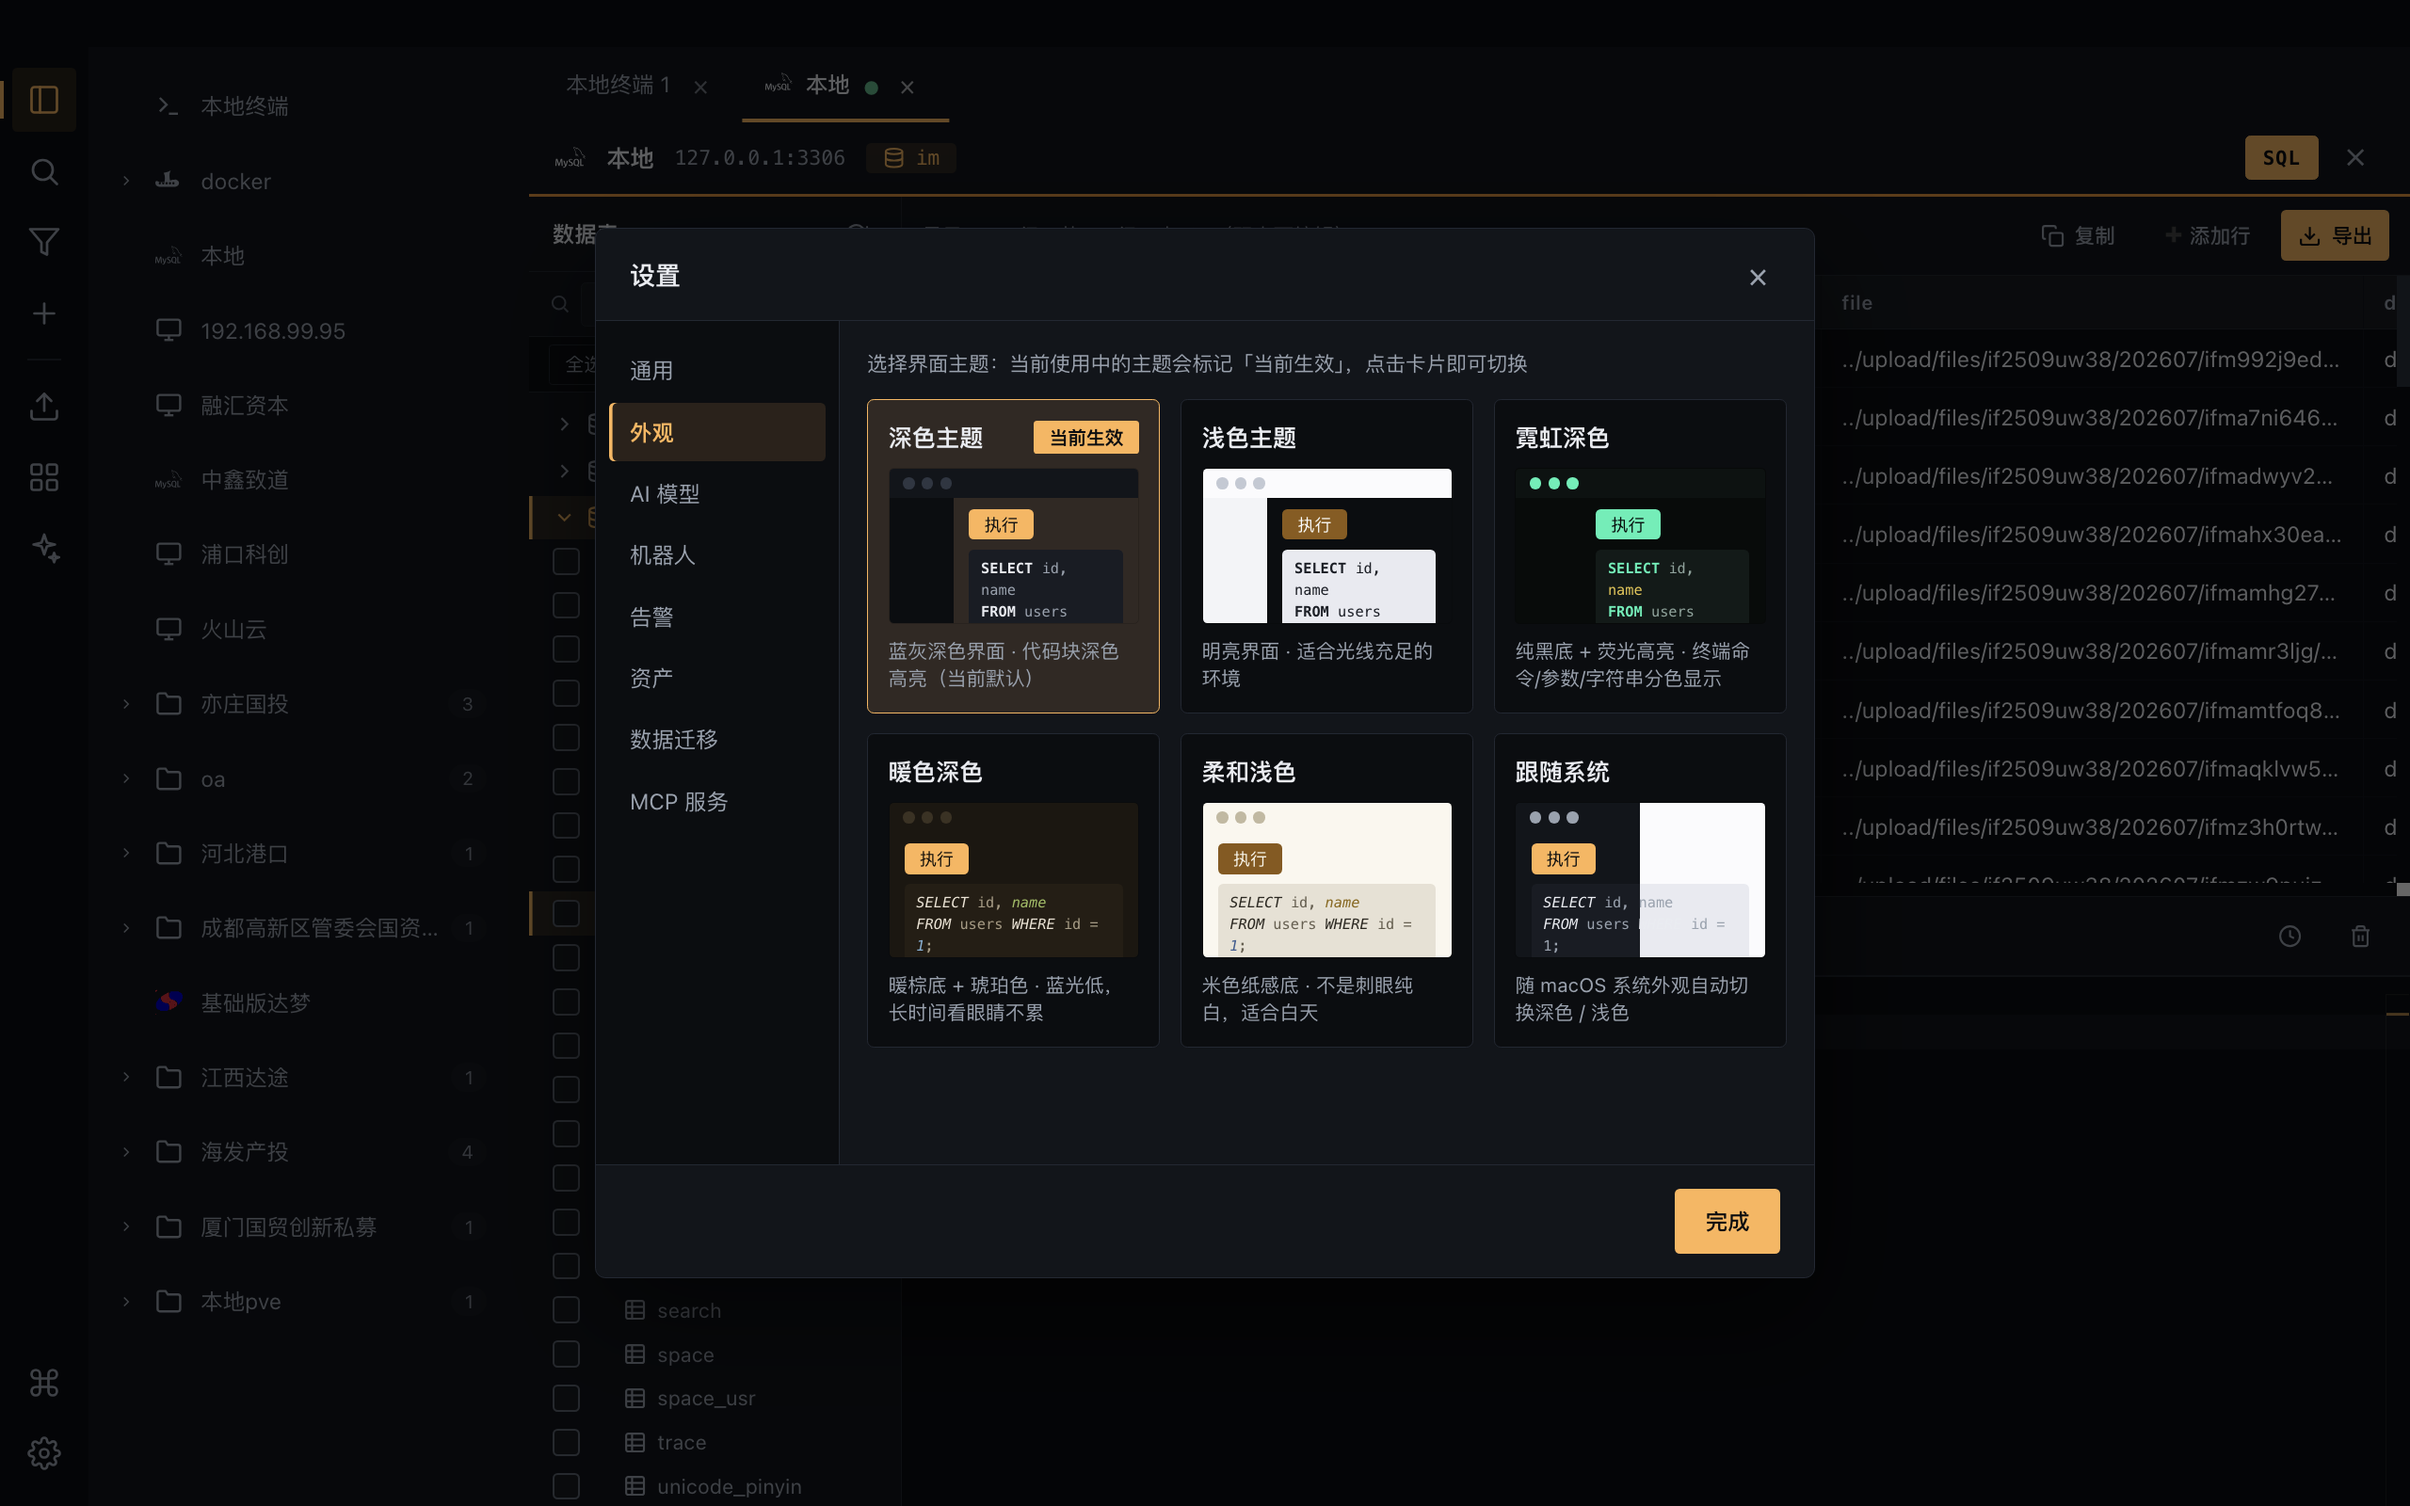
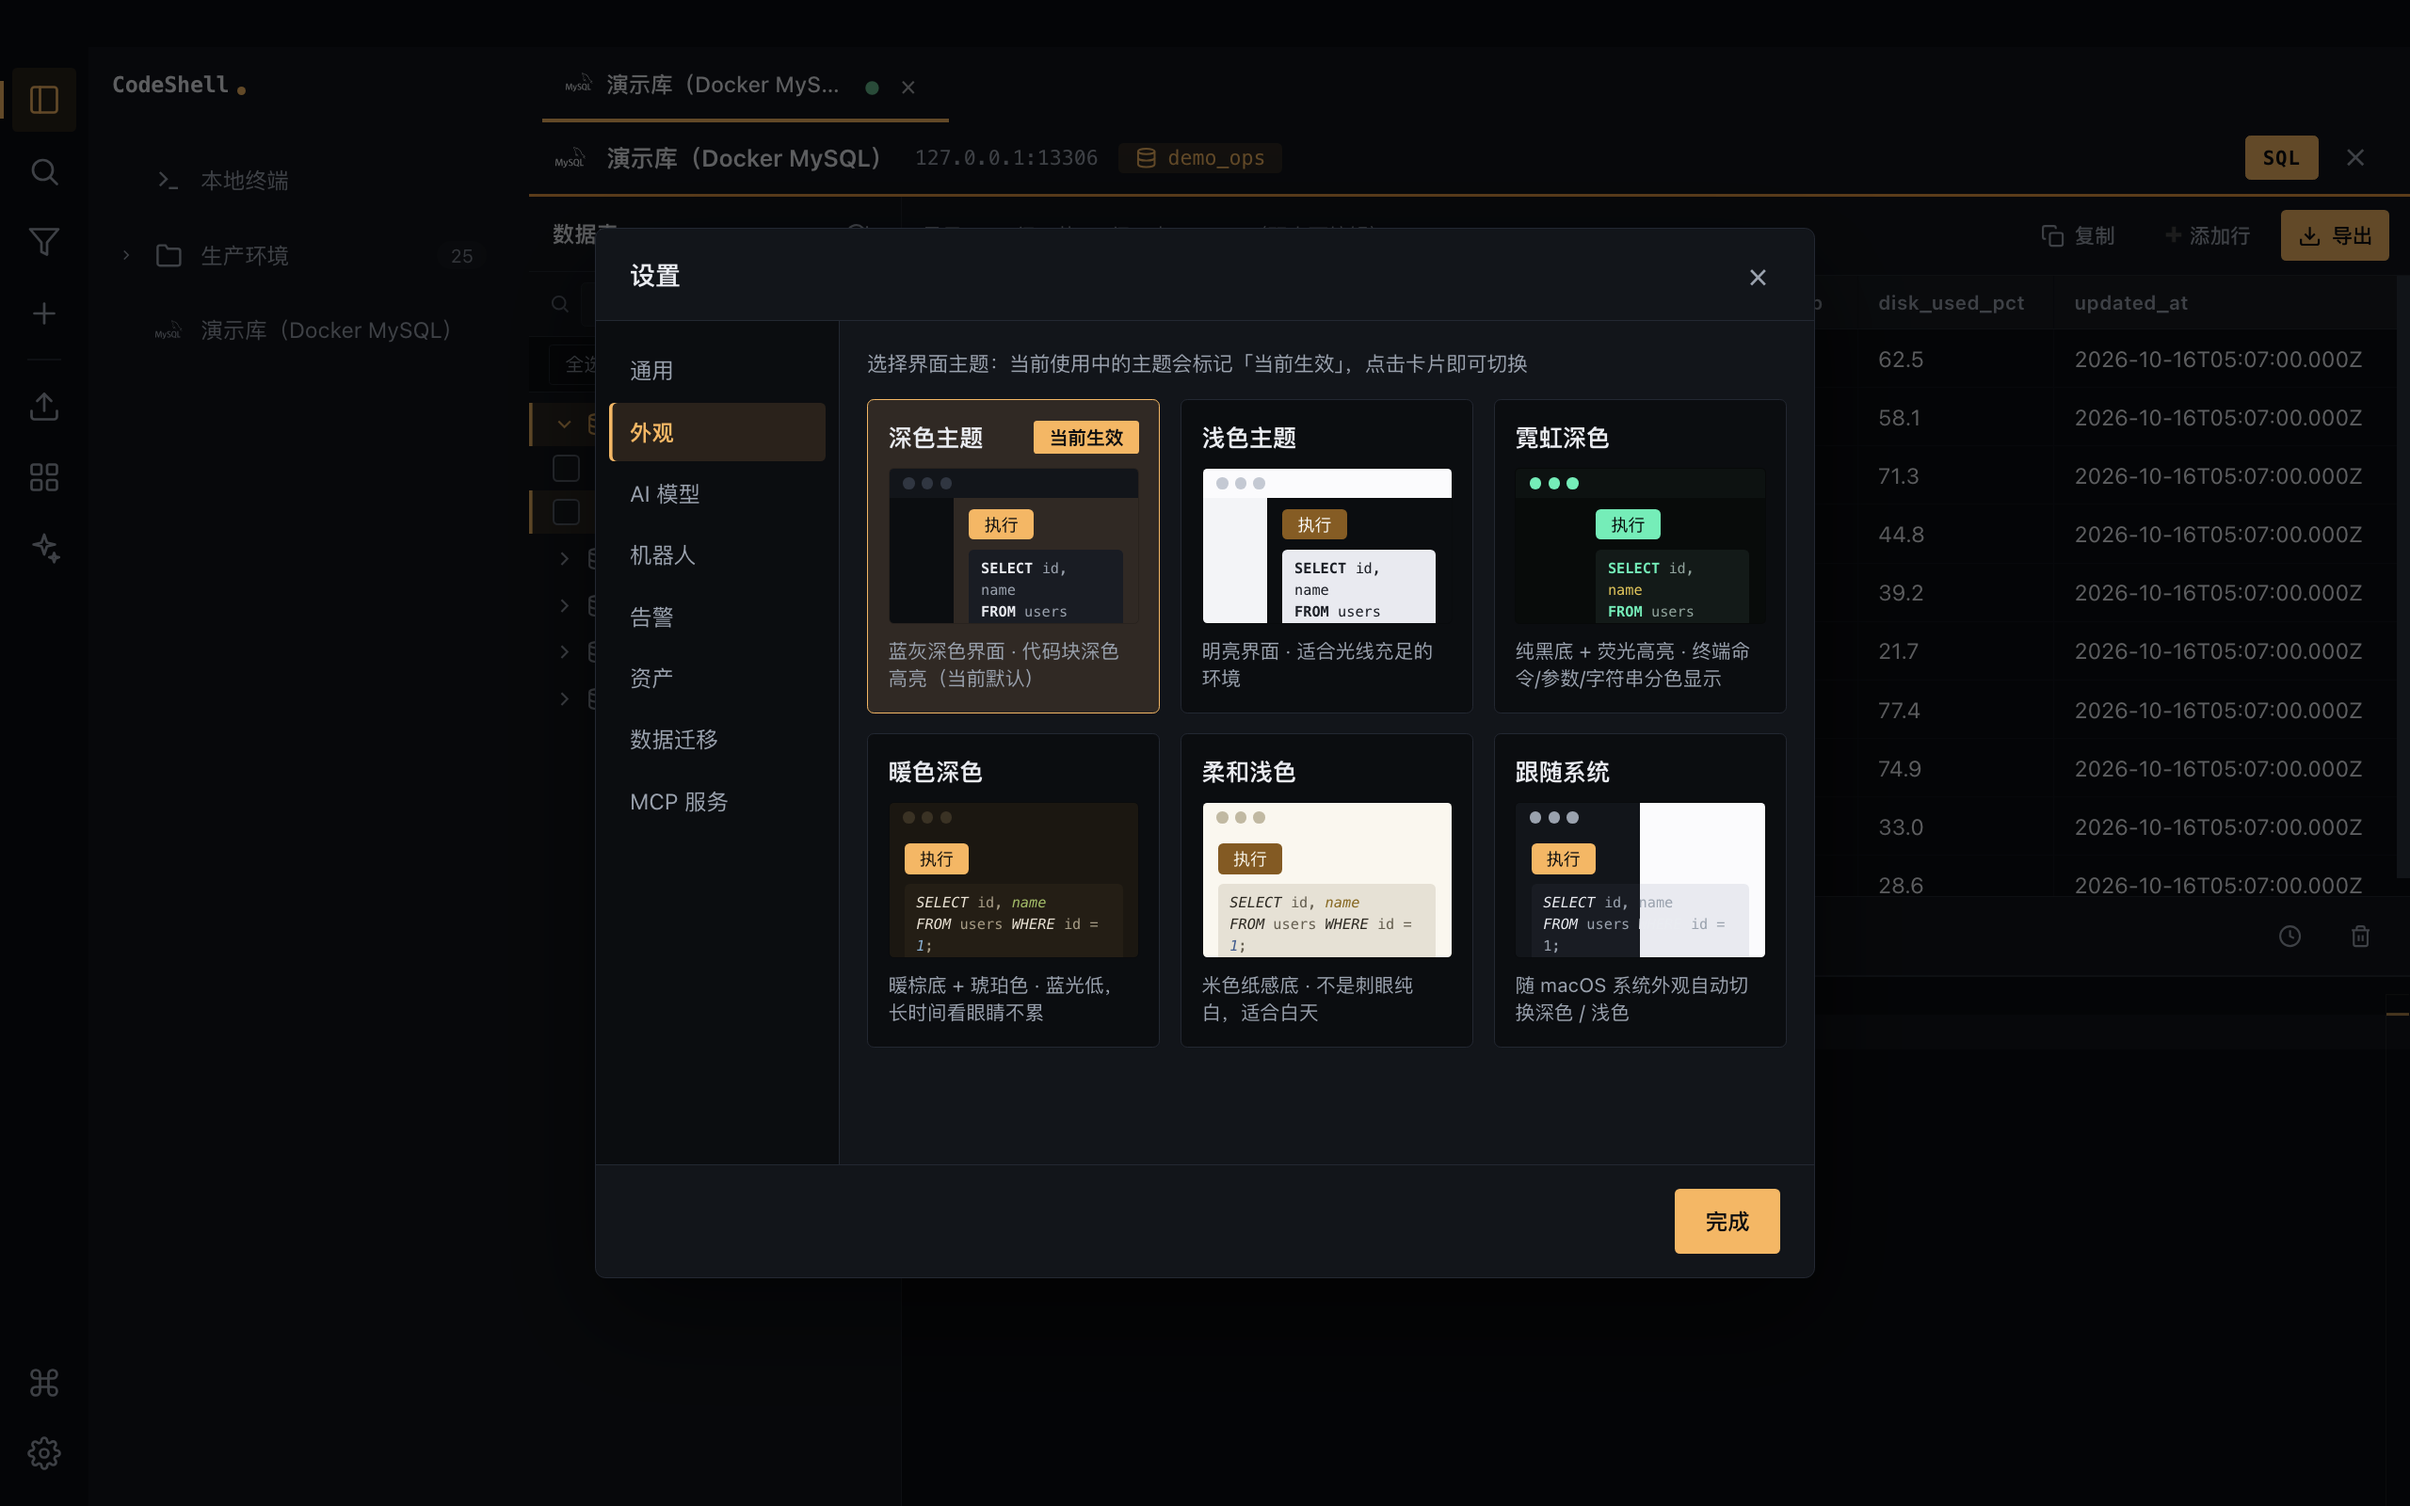
docs: v1.22.0 更新日志（AI 输入卡重做 / 停止生成 / 服务器分页）+ 徽章 1.22.0；截图全部换成通用演示数据（原截图含真实客户名与内网地址）

diff --git a/CHANGELOG.md b/CHANGELOG.md
@@ -2,6 +2,23 @@
 
 版本号遵循 [语义化版本](https://semver.org/lang/zh-CN/)：新功能 +0.1.0、修复/样式 +0.0.1、不兼容改动 +1.0.0。
 
+## v1.22.0
+
+### AI 助手输入区（重做）
+
+- **一张输入卡包住所有操作**：上方多行输入（随内容长高、空着也留两行），下方操作栏左侧是「＋（对话与上下文）· 对话/执行 · 权限」，右侧是「模型 · 思考 · 发送」。
+- **「对话 / 执行」改成常显分段控件**：两个选项一直摆着、当前项琥珀实心，不再是一个要点的文字按钮。
+- **生成中发送键变「停止生成」**：方块图标，`Esc` 等效；对话流支持真中断（300ms 内停），**已生成的内容全部保留**；批量运维同样支持，且不会把半截回复里的命令填进命令框。
+- **「工作中 x 分 y 秒」状态条 + 转圈**：处理中等了多久一眼可见，输入框与发送键同步禁用。
+- **思考过程不再重放**：打字机只对实时内容生效 —— 切换对话/执行、重开面板都不会再把历史思考「逐字打一遍」。
+- 细节：发送箭头常显（禁用时暗箭头而非空白方块）、模型名显示成「厂商/模型」、思考过程可设默认展开/收起、`＋` 菜单里可关掉终端上下文引用、归档/恢复对话移到 `＋` 菜单。
+
+### 批量运维
+
+- **目标服务器分页**：每页 20 台，页码 + 总数；搜索后自动回第一页。
+- 全选 / 全不选 / 反选作用于**当前搜索过滤出的服务器**（所见即所选），跨页勾选保留。
+- 「用 AI 生成命令」沿用 AI 助手同款输入卡。
+
 ## v1.21.0
 
 ### 批量运维（重构为独立页面）

diff --git a/README.md b/README.md
@@ -5,7 +5,7 @@
   <p>
     <img alt="platform" src="https://img.shields.io/badge/platform-macOS%20%7C%20Windows-3e8bff" />
     <img alt="electron" src="https://img.shields.io/badge/Electron-30-47848f" />
-    <img alt="version" src="https://img.shields.io/badge/version-1.21.0-00b894" />
+    <img alt="version" src="https://img.shields.io/badge/version-1.22.0-00b894" />
     <img alt="license" src="https://img.shields.io/badge/license-Proprietary-lightgrey" />
   </p>
 </div>
